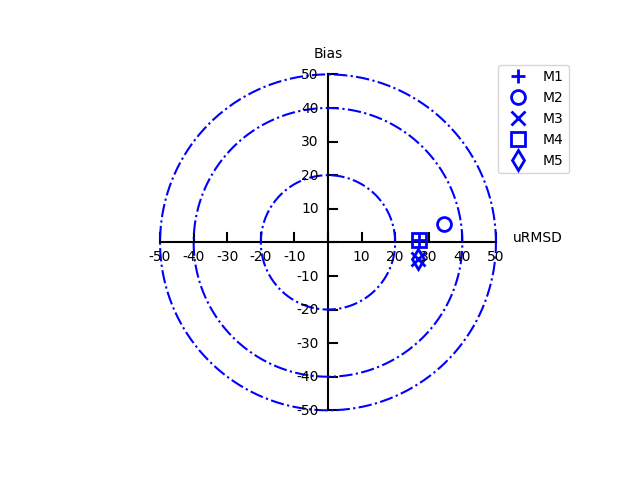
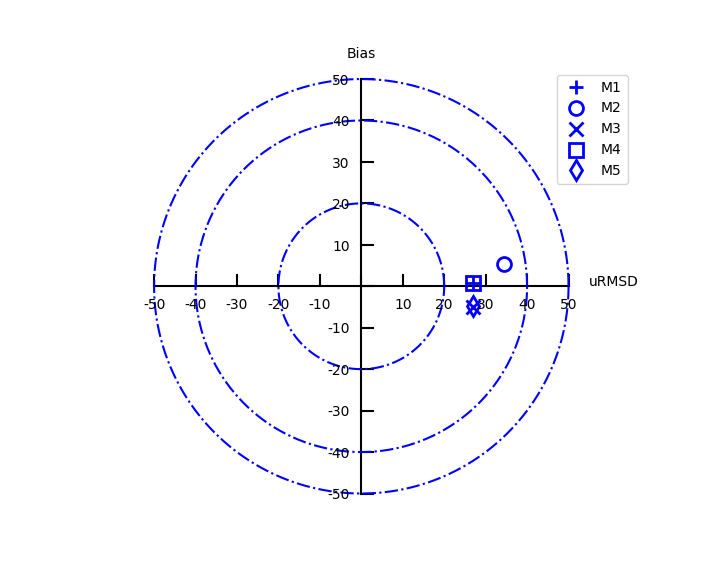
Implemented better default angle for placement of RMS contour values.

diff --git a/Examples/taylor9.py b/Examples/taylor9.py
@@ -1,5 +1,6 @@
 '''
 How to create a Taylor diagram with modified axes and data point colors
+that show co-located points.
 
 A ninth example of how to create a Taylor diagram given one set of
 reference observations and multiple model predictions for the quantity.
@@ -8,7 +9,7 @@ This example is a variation on the fifth example (taylor5) where now a
 legend is added, axes titles are suppressed, and four points are co-located 
 (i.e. overly each other). Symbols with transparent faces are used so the 
 co-located points can be seen. The list of points are checked for those 
-thatagree with 1% of each other are reported to the screen.
+that agree within 1% of each other and reported to the screen.
 
 All functions in the Skill Metrics library are designed to only work with
 one-dimensional arrays, e.g. time series of observations at a selected
@@ -117,13 +118,13 @@ if __name__ == '__main__':
     sm.taylor_diagram(sdev,crmsd,ccoef, markerLabel = label,
                       markerLabelColor = 'r', 
                       markerColor = 'r', markerLegend = 'on', 
-                      tickRMS = range(0,60,10), tickRMSangle = 110.0,
+                      tickRMS = range(0,60,10), 
                       colRMS = 'm', styleRMS = ':', widthRMS = 2.0, 
-                      titleRMS = 'off', tickSTD = range(0,80,20), 
+                      titleRMS = 'on', tickSTD = range(0,80,20), 
                       axismax = 60.0, colSTD = 'b', styleSTD = '-.', 
-                      widthSTD = 1.0, titleSTD = 'off', 
+                      widthSTD = 1.0, titleSTD = 'on', 
                       colCOR = 'k', styleCOR = '--', widthCOR = 1.0, 
-                      titleCOR = 'off', markerSize = 10, alpha = 0.0)
+                      titleCOR = 'on', markerSize = 10, alpha = 0.0)
 
     # Write plot to file
     plt.savefig('taylor9.png')

diff --git a/Examples/target7.py b/Examples/target7.py
@@ -1,5 +1,6 @@
 '''
-How to create a target diagram with a legend plus changed marker colors and circles
+How to create a target diagram with a legend plus changed marker colors 
+and circles that show co-located points.
 
 A seventh example of how to create a target diagram given one set of
 reference observations and multiple model predictions for the quantity.
@@ -9,7 +10,7 @@ legend is added, the marker colors are changed, the radii of circles
 to draw are specified, and two points are co-located 
 (i.e. overly each other). Symbols with transparent faces are used so the 
 co-located points can be seen. The list of points are checked for those 
-thatagree with 1% of each other are reported to the screen.
+that agree within 1% of each other and reported to the screen.
 
 All functions in the Skill Metrics library are designed to only work with
 one-dimensional arrays, e.g. time series of observations at a selected
@@ -93,11 +94,11 @@ if __name__ == '__main__':
     # etc.).
     label = ['M1', 'M2', 'M3', 'M4', 'M5']
     
-#     # Check for duplicate statistics
-#     duplicateStats = sm.check_duplicate_stats(bias,crmsd)
-#     
-#     # Report duplicate statistics, if any
-#     sm.report_duplicate_stats(duplicateStats)
+    # Check for duplicate statistics
+    duplicateStats = sm.check_duplicate_stats(bias,crmsd)
+     
+    # Report duplicate statistics, if any. 
+    sm.report_duplicate_stats(duplicateStats)
 
     '''
     Produce the target diagram
@@ -111,6 +112,7 @@ if __name__ == '__main__':
     please call the function at a Python command line:
     >> target_diagram
     '''
+    
     #ToDo: fix placement of legend 
     sm.target_diagram(bias,crmsd,rmsd, markerLabel = label, \
                       markerLabelColor = 'b', \

diff --git a/skill_metrics/overlay_taylor_diagram_circles.py b/skill_metrics/overlay_taylor_diagram_circles.py
@@ -1,6 +1,7 @@
 import matplotlib.pyplot as plt
 import numpy as np
 from numpy import where
+from math import atan2
 
 def overlay_taylor_diagram_circles(axes,cax,option):
     '''
@@ -53,14 +54,20 @@ def overlay_taylor_diagram_circles(axes,cax,option):
     
     # DRAW RMS CIRCLES:
     # ANGLE OF THE TICK LABELS
-    c82 = np.cos(option['tickrmsangle']*np.pi/180)
-    s82 = np.sin(option['tickrmsangle']*np.pi/180)
+    if option['tickrmsangle'] > 0:
+        tickRMSAngle = option['tickrmsangle']
+    else:
+        phi = np.arctan2(option['tickstd'][-1],axes['dx'])
+        tickRMSAngle = 180 - np.rad2deg(phi)
+    
+    c82 = np.cos(tickRMSAngle*np.pi/180)
+    s82 = np.sin(tickRMSAngle*np.pi/180)
     radius = np.sqrt(axes['dx']**2+axes['rmax']**2 - 
                      2*axes['dx']*axes['rmax']*xunit)
 
     # Define label format
     labelFormat = '{' + option['rmslabelformat'] + '}'
-
+    
     for iradius in option['tickrms']:
         phi = th[np.where(radius >= iradius)]
         phi = phi[0]
@@ -74,7 +81,7 @@ def overlay_taylor_diagram_circles(axes,cax,option):
             ytextpos = (iradius+option['rincrms']/20)*s82
             plt.text(xtextpos,ytextpos, '  ' + labelFormat.format(iradius), 
                      verticalalignment = 'baseline', 
-                     color = option['colrms'], rotation = option['tickrmsangle']-90)
+                     color = option['colrms'], rotation = tickRMSAngle - 90)
     
     # DRAW STD CIRCLES:
     # draw radial circles

diff --git a/skill_metrics/check_duplicate_stats.py b/skill_metrics/check_duplicate_stats.py
@@ -8,7 +8,9 @@ def check_duplicate_stats(stats1, stats2, threshold = 0.01):
     STATS1 : List of second statistical metric, e.g. Centered Root Mean Square Difference 
 
     OUTPUTS:
-    DUPLICATES : List of tuples of paired statistics that are duplicates
+    DUPLICATES : List of tuples of paired statistics that are duplicates. The list contains
+                 the index locations of the pairs of statistics followed by their values
+                 as 2-tuples.
 
     Author: Peter A. Rochford
         Symplectic, LLC

diff --git a/skill_metrics/get_taylor_diagram_options.py b/skill_metrics/get_taylor_diagram_options.py
@@ -164,7 +164,7 @@ def get_taylor_diagram_options(*args,**kwargs):
 
     option['tickrms'] = [] 
     option['tickstd'] = [] 
-    option['tickrmsangle'] = 135
+    option['tickrmsangle'] = -1
     option['titlecolorbar'] = ''
     option['titlecor'] = 'on'
     option['titleobs'] = ''

diff --git a/README.rst b/README.rst
@@ -26,7 +26,7 @@ $ pip install SkillMetrics --upgrade
 Examples
 --------
 A primer on Taylor diagrams as well as an "Examples" folder that contains a collection of example Python scripts showing how to produce target and Taylor diagrams in a variety of formats is available via a GitHub Wiki at  
-https://github.com/PeterRochford/SkillMetrics/wiki. There are 6 examples for target diagrams and 7 examples for Taylor diagrams that successively progress from very simple to more customized figures. These series of examples provide an easy tutorial on how to use the various options of the target_diagram and taylor_diagram functions. They also provide a quick reference in future for how to produce the diagrams with specific features. The diagrams produced by each script are in Portable Network Graphics (PNG) format and have the same file name as the script with a "png" suffix. Examples of the diagrams produced can be found on the Wiki.
+https://github.com/PeterRochford/SkillMetrics/wiki. There are 7 examples for target diagrams and 9 examples for Taylor diagrams that successively progress from very simple to more customized figures. These series of examples provide an easy tutorial on how to use the various options of the target_diagram and taylor_diagram functions. They also provide a quick reference in future for how to produce the diagrams with specific features. The diagrams produced by each script are in Portable Network Graphics (PNG) format and have the same file name as the script with a "png" suffix. Examples of the diagrams produced can be found on the Wiki.
 
 There is also a simple program "all_stats.py" available via the Wiki that provides examples of how to calculate the various skill metrics used or available in the package. All the calculated skill metrics are written to an Excel file for easy viewing and manipulation. The Python code is kept to a minimum.
 
